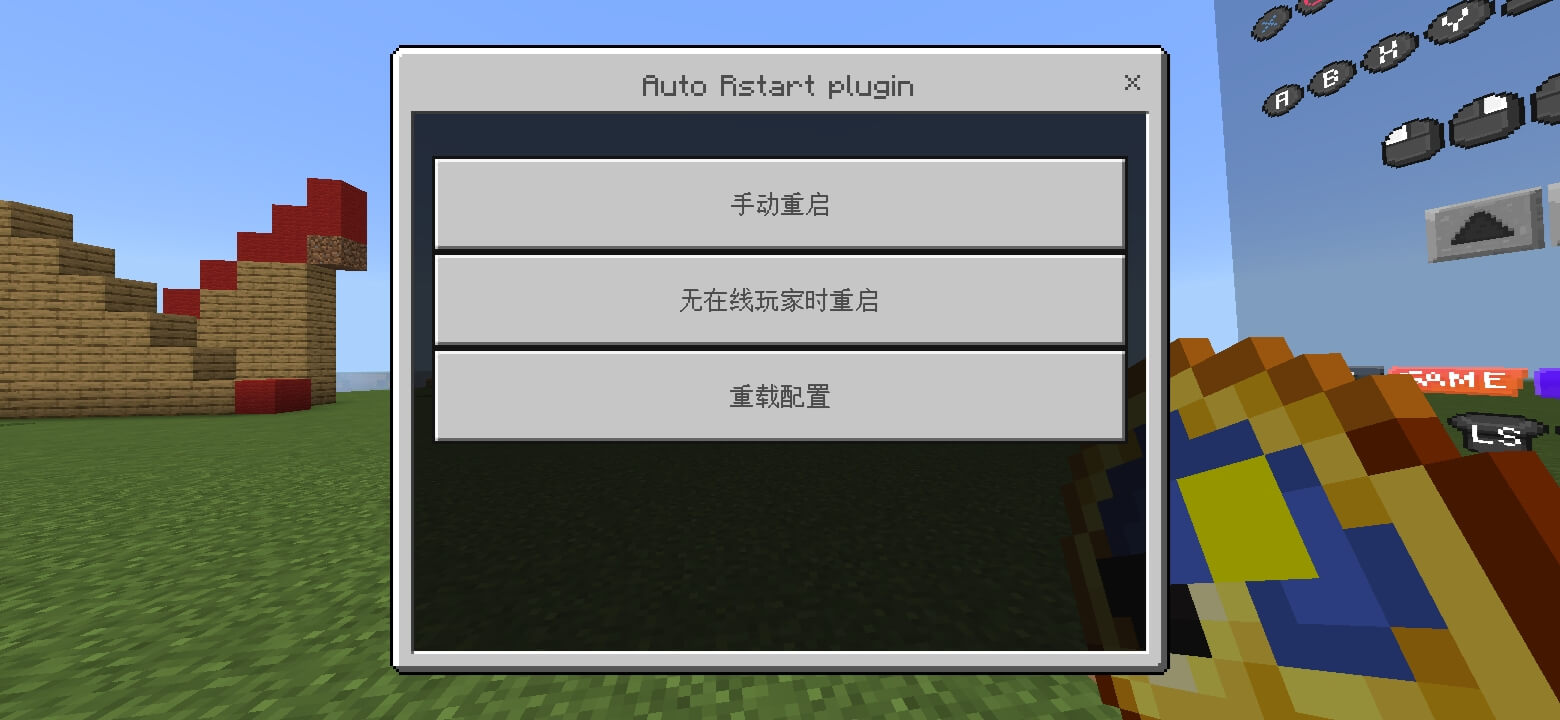
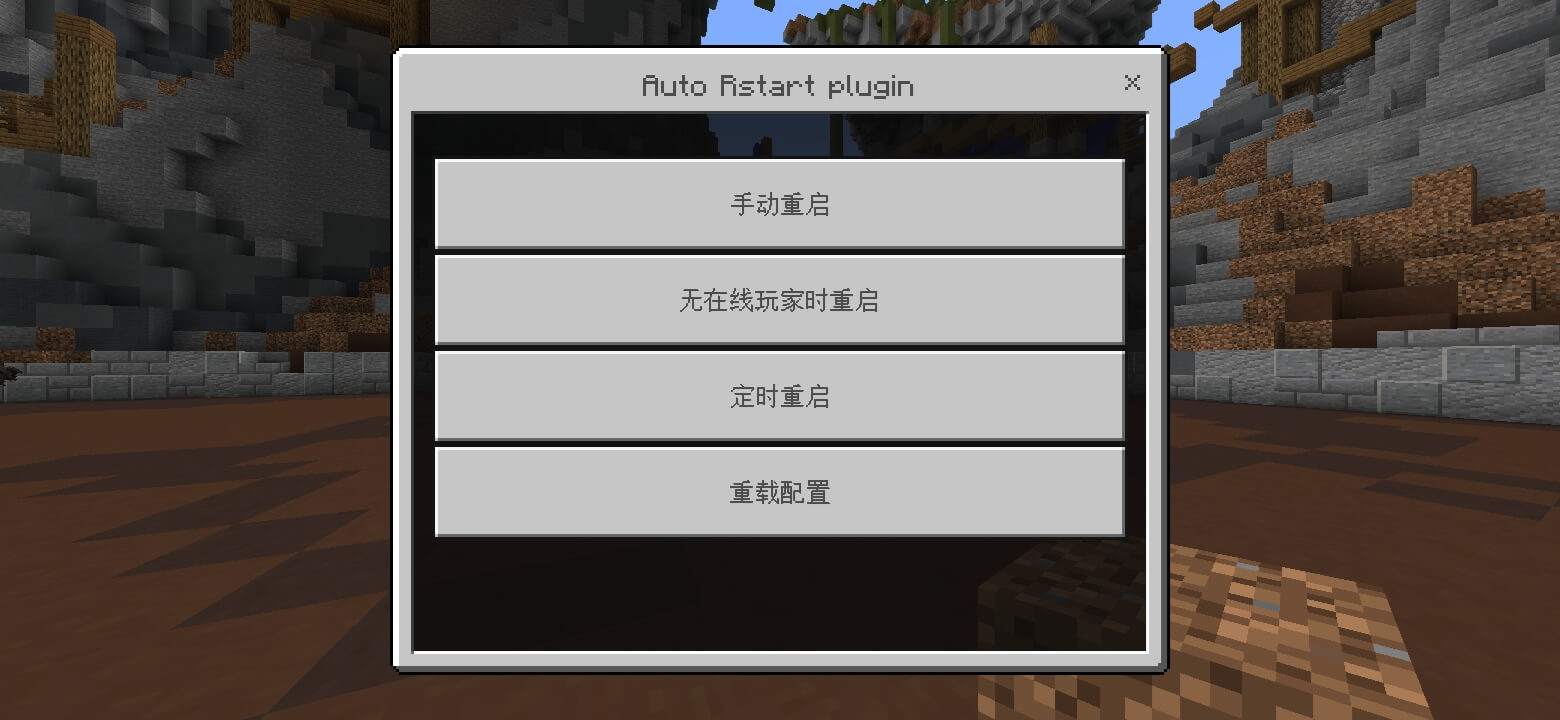
1.0.0-beta5 release

diff --git a/docs/changelogs/1.0.0-beta5.md b/docs/changelogs/1.0.0-beta5.md
@@ -1,0 +1,45 @@
+# **1.0.0-beta5**
+---
+## **注意事项**
+1. **从该版本起默认使用内置的语言文件，如需修改语言文件的内容请开启 `local_language_flies` 设置**
+2. **配置项 `auto_update_language_files` 需要谨慎开起，因为自动更新是采用覆盖试更新的。**
+3. **请不要随意修改语言文件的版本号，因为语言文件的更新检测是根据版本号进行的，所以随意修改版本号的后果自负**
+4. **从该版本起配置文件的版本号存异常时重置配置文件前生成备份文件，但在使用时还是不要随意修改配置文件的版本号**
+---
+## **更新建议**
+1. **使用外置语言文件在更新时建议采用合适的更新方式来进行**
+---
+## **更新内容**
+1. 添加了消息的统一前缀     2f90183 + d74b47d
+2. 修复Admin UI的时间提示bug     669c44f
+3. 将投票重启相关的代码移到单独的类     4a7eb7f
+4. 修复投票的票数可能会被篡改的bug
+5. 修复 4a7eb7f 存在的bug     99a159e
+    - 无法记录已投票的玩家
+    - 无法在后台取消掉投票重启任务(使用一票否决权)的bug
+    - 无法正确获取需要投赞成票人数的bug
+6. 修复 2f90183 导致部分文案无法正常显示的bug 
+7. 移除无用代码     21ddd62
+8. 调整跟投票重启相关的if判断
+9. 增加Javadoc注释
+10. 调整获取信息的方式（需要使用相关的get方法）     f537a52
+11. 为投票重启设置一个单独的任务类型
+12. 修改部分参数名
+13. 对import进行调整     927a2f2
+14. 增加Javadoc     36f6e32
+15. 调整部分代码
+16. 将现有的定时重启改为自动重启     40f2f14
+17. 为语言文件添加版本号
+18. 添加自动更新语言文件的功能
+19. 对部分代码进行调整
+20. 添加重置配置文件时会生成备份文件的功能     c13404e
+21. 对部分代码进行调整     42e8db8
+22. 优化重启任务的暂停功能
+23. 添加可以使用内置或外置语言文件的功能     5dec902
+24. 修改一些判断方便后续开发     026aa98
+25. 将通知玩家参与投票的广播时间改为30秒
+26. 添加真正的定时重启功能     3ed9fff
+27. 调整语言文件的更新检测逻辑
+28. 优化和调整部分代码     988156e
+29. 明确部分命令参数为可选参数      ea125f7
+30. 自动重启任务只能运行一次     16c9aaf

diff --git a/README.md b/README.md
@@ -181,4 +181,5 @@ jar_name="server.jar"  #开服核心的名字记得加.jar后缀名
 |-|-|-|
 |![4](docs/image/4.jpg)|![5](docs/image/5.jpg)|![6](docs/image/6.jpg)|
 |![7](docs/image/7.jpg)|![8](docs/image/8.jpg)|![9](docs/image/9.jpg)|
+|![10](docs/image/10.jpg)|![11](docs/image/11.jpg)||
 ## **[开发文档](docs/dev-doc.md)**
